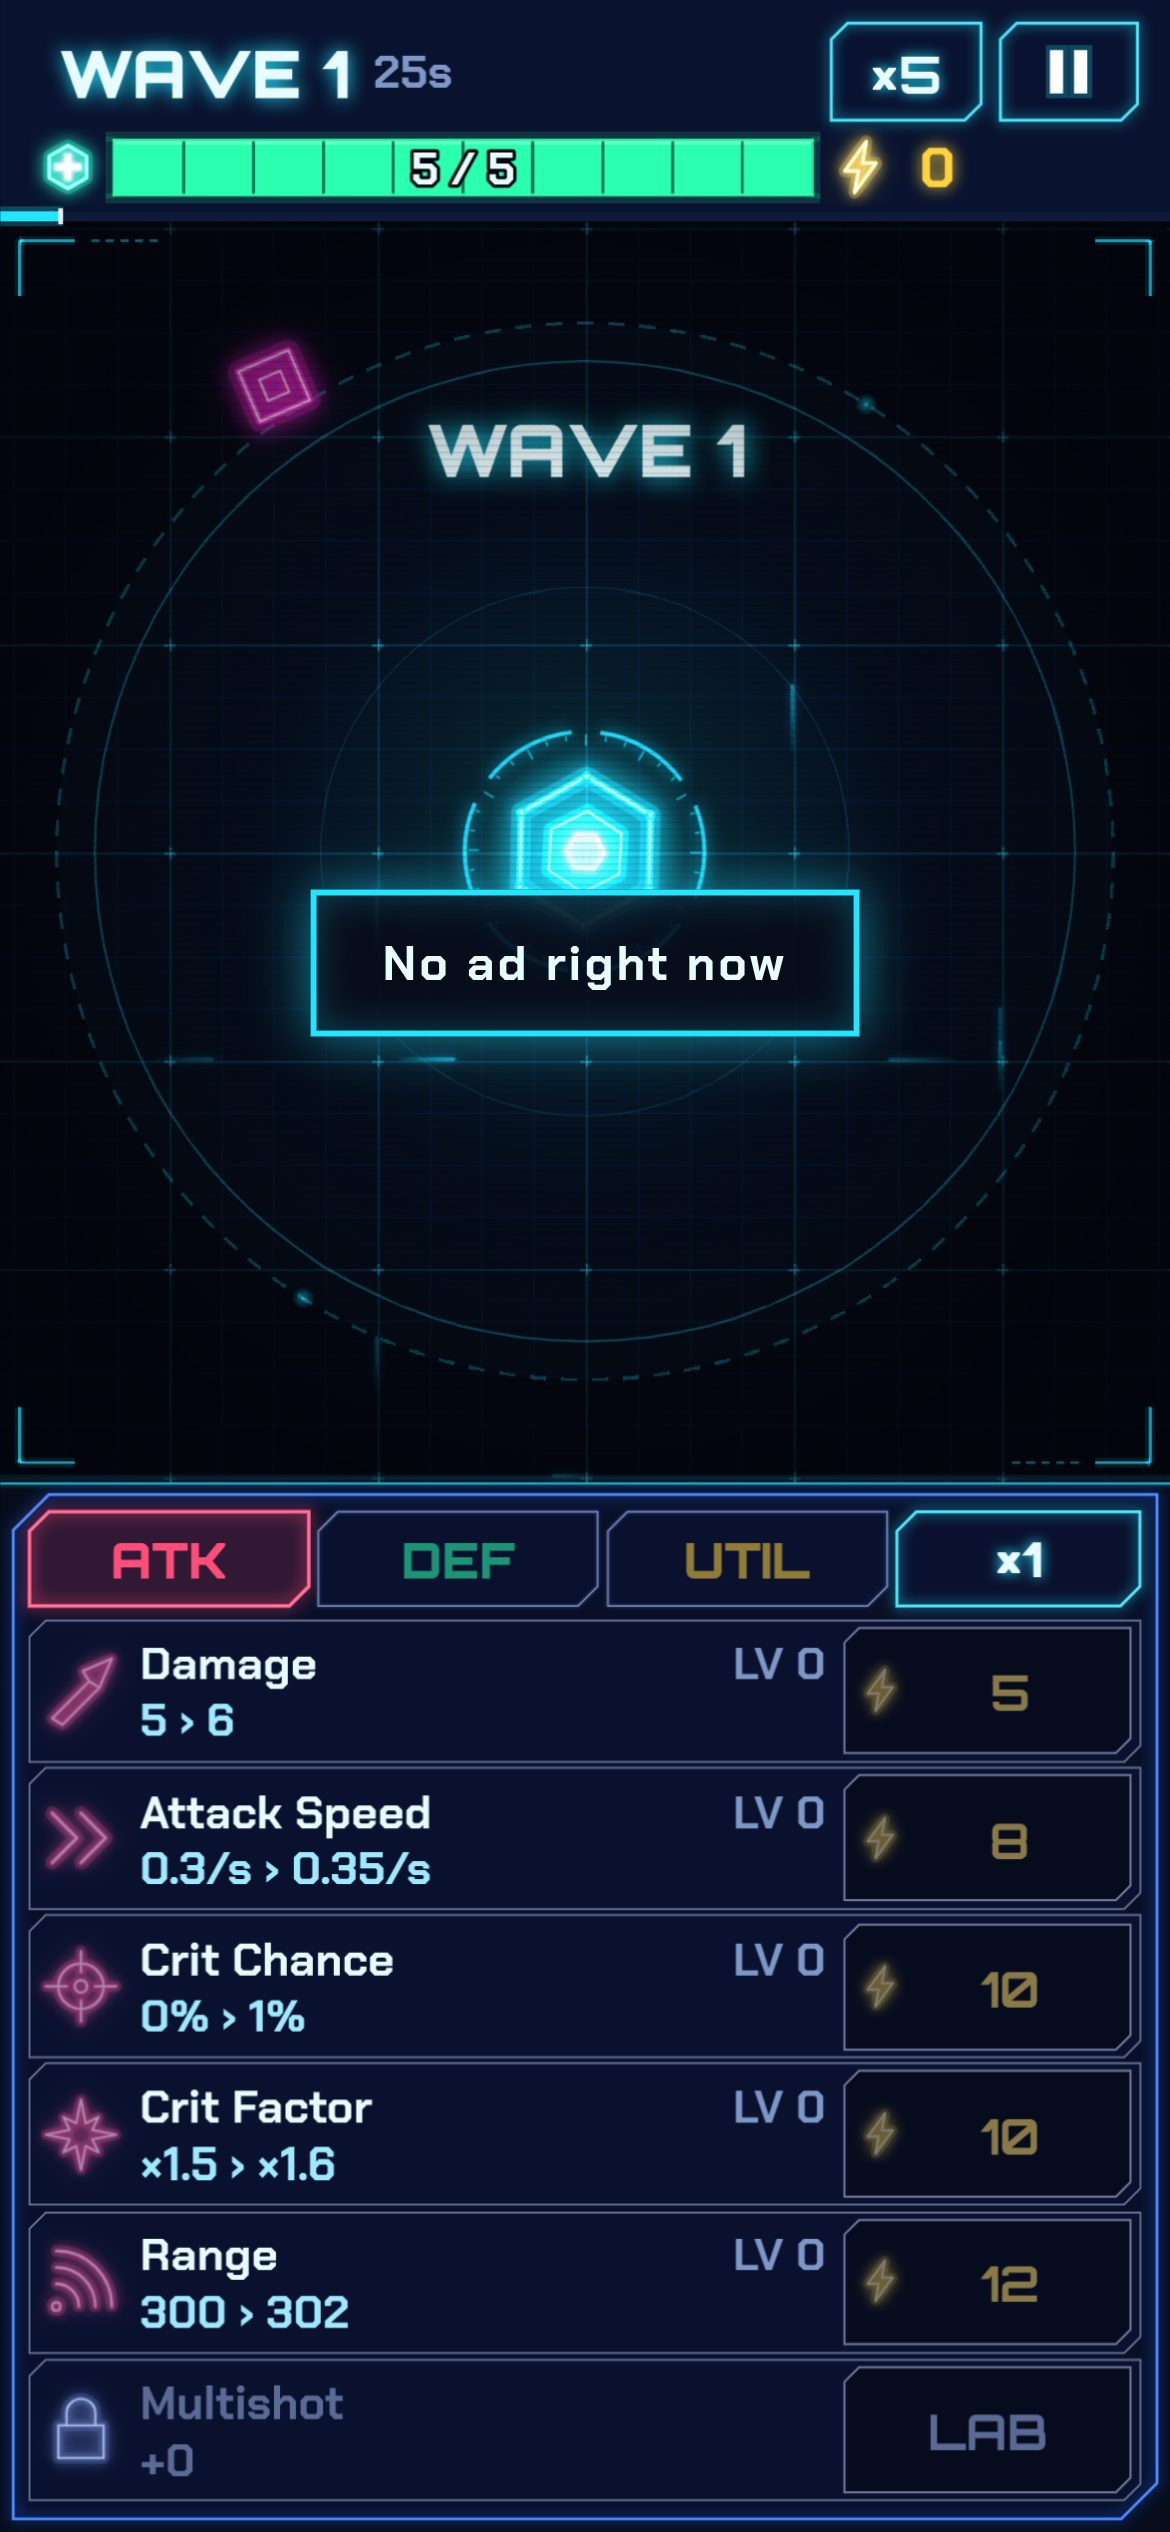
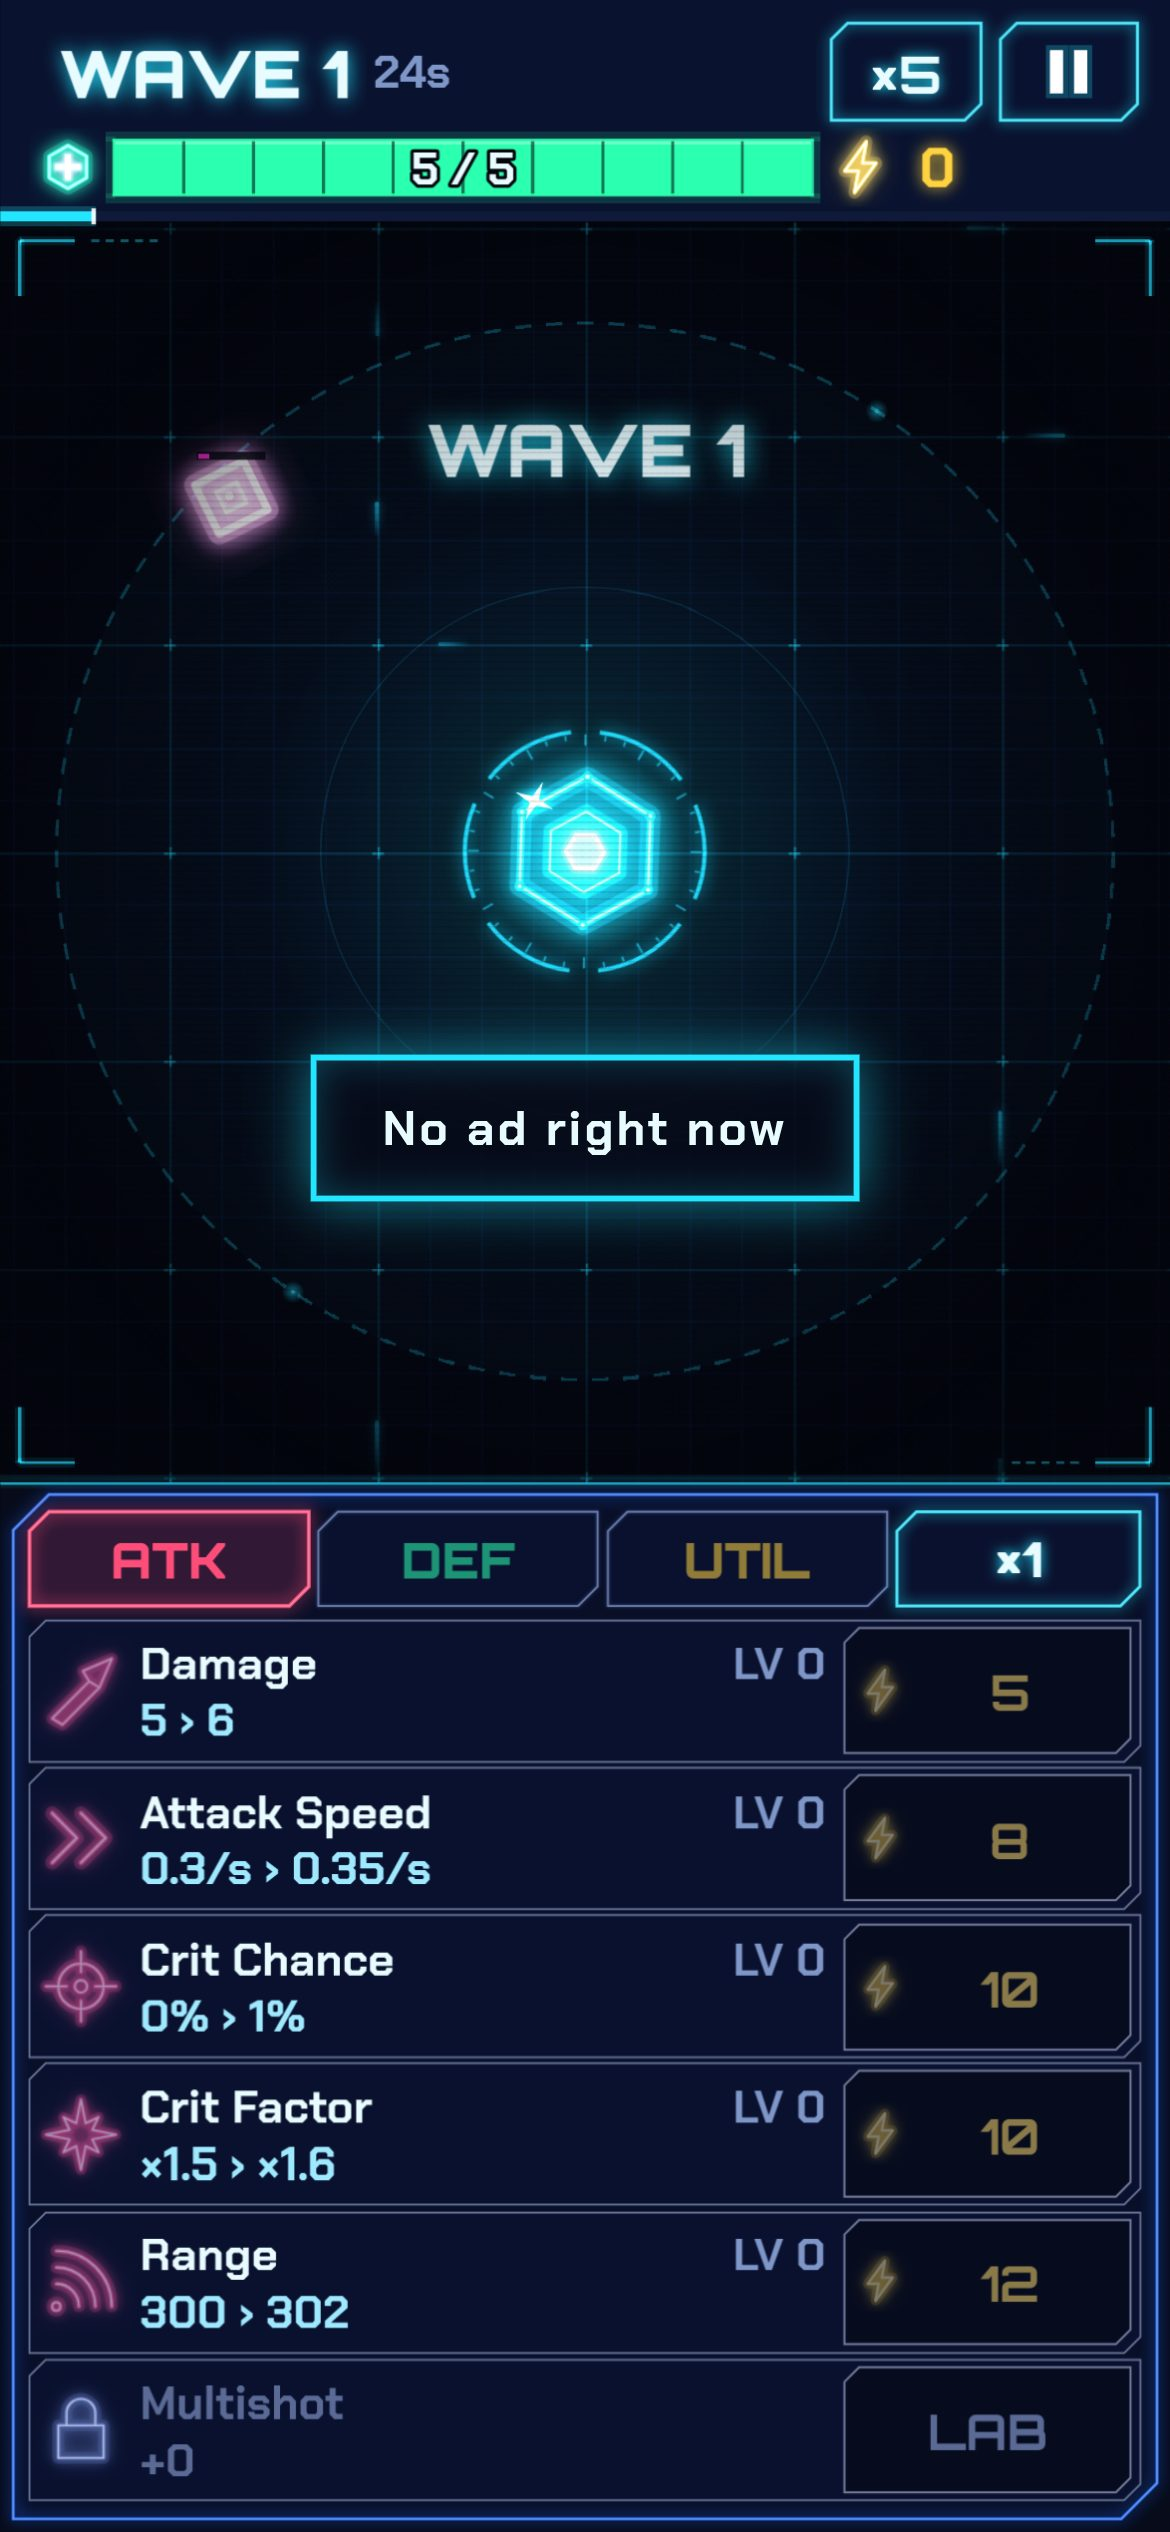
Toast anchored in the arena (landscape seam), quote-agnostic dev-query checks in postbuild, landscape toast smoke + shot; notes: merge surface, gaps
Claude-Session: https://claude.ai/code/session_01BZKsxQEywShKS3YYg1GcQ4

diff --git a/src/portal/toast.ts b/src/portal/toast.ts
@@ -5,19 +5,22 @@ import { BG_CSS, CYAN_CSS, TEXT } from '../render/palette';
 let el: HTMLDivElement | null = null;
 let timer = 0;
 
-export function showToast(text: string, ms: number): void {
+/** `at` = CSS-px centre for the toast (e.g. inside the arena); defaults to the viewport centre-ish. */
+export function showToast(text: string, ms: number, at?: { x: number; y: number } | null): void {
   if (typeof document === 'undefined') return;
   if (!el) {
     el = document.createElement('div');
     el.id = 'cp-toast';
     el.setAttribute('role', 'status');
     el.style.cssText =
-      'position:fixed;left:50%;top:38%;transform:translate(-50%,-50%);z-index:9000;pointer-events:none;' +
+      'position:fixed;left:50%;top:38%;transform:translate(-50%,-50%);max-width:92vw;z-index:9000;pointer-events:none;' +
       `padding:12px 22px;border:2px solid ${CYAN_CSS};background:${BG_CSS}e6;color:${TEXT};` +
       'font:700 clamp(16px,2.6vmin + 6px,26px) "Chakra Petch",sans-serif;letter-spacing:.06em;white-space:nowrap;' +
       `box-shadow:0 0 18px ${CYAN_CSS}88, inset 0 0 12px ${CYAN_CSS}44;transition:opacity .25s;opacity:0`;
     document.body.append(el);
   }
+  el.style.left = at ? `${at.x}px` : '50%';
+  el.style.top = at ? `${at.y}px` : '38%';
   el.textContent = text;
   el.style.opacity = '1';
   el.dataset.shown = String((Number(el.dataset.shown) || 0) + 1);

diff --git a/src/main.ts b/src/main.ts
@@ -50,7 +50,7 @@ async function start(): Promise<void> {
     guard,
     policy: new MidgamePolicy(rules, () => performance.now()),
     telemetry,
-    toast: (t) => showToast(t, adsJson.toast.ms),
+    toast: (t) => showToast(t, adsJson.toast.ms, toastAnchor()),
     toastText: adsJson.toast.text,
   });
   // Poki's init can settle after its own cap; availability is re-read now and then (cheap).
@@ -77,6 +77,13 @@ async function start(): Promise<void> {
     scene: [BootScene, BattleScene],
   });
   game.registry.set('layout', layout);
+  // The toast sits in the arena (below the core), never across the arena/panel seam.
+  const toastAnchor = () => {
+    const r = game.canvas?.getBoundingClientRect();
+    if (!r || r.width === 0) return null;
+    const a = layout.arena;
+    return { x: r.left + ((a.x + a.w / 2) * r.width) / layout.w, y: r.top + ((a.y + a.h * 0.72) * r.height) / layout.h };
+  };
 
   // Effective mute = portal mute OR an ad is playing (audio mutes at the ad's real start, not at request).
   let portalMuted = false;

diff --git a/docs/superpowers/plans/2026-10-05-m6-portals-notes.md b/docs/superpowers/plans/2026-10-05-m6-portals-notes.md
@@ -5,7 +5,7 @@ Branch `m6-portals`, commits `0ac0ceb..HEAD`, on top of M2b (`c8b1be5`). Built i
 Status:
 - Tests 195 → 260.
 - `typecheck`, `build`, `build:crazygames`, `build:poki` and `build:all` are green. Every build runs `tools/postbuild.mjs`.
-- `npm run ui` passes 131/131: the 78 M2 checks plus 53 portal checks.
+- `npm run ui` passes 132/132: the 78 M2 checks plus 54 portal checks.
 - `npm run ui:portal-build` passes 22/22.
 - `npm run package` writes `dist/core-protocol-crazygames.zip` (374 KB) and `dist/core-protocol-poki.zip` (374 KB).
 
@@ -145,7 +145,7 @@ Portal checks:
 - with the real SDK URL fulfilled by the fake SDK through `page.route` (no network needed): `loadingStop`/`gameLoadingFinished` once, no gameplayStart before input, pause/resume via HUD taps, no other portal's host contacted, no console errors;
 - with the SDK URL blocked (adblock): the game still boots, with no errors.
 
-Screenshots: `reports/screens/portal-midgame-portrait.jpg`, `portal-midgame-landscape.jpg` and `portal-ad-fail-toast.jpg`.
+Screenshots: `reports/screens/portal-midgame-portrait.jpg`, `portal-midgame-landscape.jpg`, `portal-ad-fail-toast.jpg` (portrait) and `portal-toast-landscape.jpg`.
 
 **Merge hygiene:** a full `npm run ui` rewrites M2's screenshots and `reports/ui-smoke.json`. I restored them with `git checkout reports/` and committed only the `portal-*` shots.
 
@@ -168,7 +168,7 @@ Screenshots: `reports/screens/portal-midgame-portrait.jpg`, `portal-midgame-land
 | Midgame policy: never at the session's first break (first death), and ≥ 180 s since the last ad that **played** (midgame or rewarded), counted from session start. Numbers are in `src/data/ads.json` | CrazyGames docs: the SDK paces midgames to ≤ 1 per 3 min and asks to protect day-1 retention, so no ads in the first minutes. Poki: call `commercialBreak` at natural breaks and Poki paces it. A game-side floor keeps both portals and the local build consistent | One more ad opportunity lost per session at worst; tune in data |
 | A rewarded ad restarts the midgame gap | Avoids revive ad → death → midgame back to back; CrazyGames also adds "safeguards around rewarded ads" | Slightly fewer midgames |
 | The toast is for **rewarded** failures only; a failed or skipped midgame is silent | The player didn't ask for a midgame, so "No ad right now" would confuse them. The `?ads=fail` smoke checks the toast through `__cp.rewarded` | Trivial to add a toast to midgame |
-| The toast is DOM, not a Phaser Text | Any scene (battle, M4 workshop, offline modal) can use it without owning a game object; it uses palette tokens and is ≥ 16 CSS px | It doesn't appear in Phaser-only captures |
+| The toast is DOM, not a Phaser Text, anchored in the arena below the core (`main.ts` `toastAnchor`, from `layout.arena` and the canvas rect) | Any scene (battle, M4 workshop, offline modal) can use it without owning a game object; it uses palette tokens and is ≥ 16 CSS px. The arena anchor keeps it off the arena/panel seam in landscape | It doesn't appear in Phaser-only captures |
 | Portal init runs in parallel with Phaser boot. BootScene waits for fonts **and** init (capped at 2.5 s together) and then calls `loadingFinished`. A late init triggers `PortalGuard.portalReady()`, which replays `loadingFinished` and `gameplayStart` | Merge Wall blocked Phaser creation on init. Running them in parallel is faster, and the replay fixes the "CrazyGames loadingStart after we sent stop" hole | The replay is the only path for a late SDK; it is unit-tested (`crazygamesPortal.test.ts`, init 50 ms late) but has not been seen live |
 | `Portal.save/load` became `storage(): KeyValue` (the localStorage API) | Multiple keys: meta, run snapshot, settings. `SaveSlot` adds the versioning on top | — |
 | Audio mutes on the real ad start on **all** adapters (Poki via `commercialBreak(onStart)`/`rewardedBreak(onStart)`) | Same behaviour everywhere; the smoke can check it | If Poki's onStart never fires, audio stays on during that ad. Guard fallback: an adapter without `onAdStarted` mutes at request time |
@@ -176,7 +176,21 @@ Screenshots: `reports/screens/portal-midgame-portrait.jpg`, `portal-midgame-land
 | `game.sound.mute` is driven, but the dev state reports our own effective flag | Phaser's `mute` getter lags while the AudioContext is locked (seen in the smoke); the same issue was noted in Merge Wall | — |
 | Sim halts while `ads.running`, at the BattleScene `loop.frame` call | The CrazyGames and Poki docs require pausing at request | — |
 
+## Merge surface (files outside `src/portal`, `src/telemetry` and new tools)
+| File | Change | Resolving a conflict with M3 |
+|---|---|---|
+| `src/main.ts` | Rewritten into `async start()`: creates the portal, guard, ads, telemetry and services, then Phaser. The `scene: [BootScene, BattleScene]` list is now indented inside `start()` | Take this version and re-add M3's scenes to the `scene` list and its imports |
+| `src/render/scenes/BootScene.ts` | Waits for `services.portalInit` with the fonts, then `services.guard.loadingFinished()` right before `scene.start('Battle')` | Keep both edits; `loadingFinished` must stay the last thing before the first gameplay scene starts |
+| `src/render/scenes/BattleScene.ts` | Imports `RunLifecycle` and `services`; field `life`. One line each: `new RunLifecycle` at the top of `create()`; `life.runStarted` at the end of `create()` and of `restart()`; `life.hold('paused', p)` in `setPaused`; `life.onEvent(e, world)` as the first line of `onEvent`; DeathOverlay callback → `life.requestRestart(() => this.restart())`; `services.ads.running` added to the halt condition in `update` | Re-apply the one-liners on M3's version. Add `life.hold('perkPick', …)` around the perk pick |
+| `src/render/devHooks.ts` | `portalState()` merged into `state()`; new `requestRestart`, `rewarded` and `telemetry` | Union of both |
+| `tools/ui/harness.mjs` | Port 5199 → `UI_PORT` (default 5180); `open(browser, base, device, query, opts)` gains `opts.sdk`; returns `portal` and `sdkLog` | Union; existing four-argument calls still work |
+| `tools/ui/smoke.mjs` | New `portal` scenario plus helpers (`arenaTap`, `dieNow`, `midgameRestartChecks`) above `scenarios` | Union |
+| `vite.config.ts` | `__BUILD__` define (also declared in `src/env.d.ts`) | Union |
+| `package.json` | `build` now runs `node tools/postbuild.mjs`; new `build:local`, `build:all`, `package`, `ui:portal-build`, `telemetry:report` | Union. M3 builds then go through the postbuild checks |
+| `CLAUDE.md` | Four command lines and one rule line | Union |
+
 ## Known gaps
+- Telemetry flushes every 10 events. Hold-to-repeat buys emit about 18 `purchase` events/s, so that is about two stringify + localStorage writes per second while held (≤ 200 KB each). Move to a timed flush (e.g. every 5 s and on `session_end`) if it shows up in phone profiles.
 - Not tested against the **real** SDKs (no network in the harness). Before submission (M8), run each build on CrazyGames' QA tool and Poki's inspector.
 - No audio exists yet; mute is wired to `game.sound.mute` only. M7 audio must read `services.isMuted()`, or rely on Phaser's mute, and add a player mute toggle.
 - `happytime()` is not called anywhere. A candidate is a new best wave (M4).
